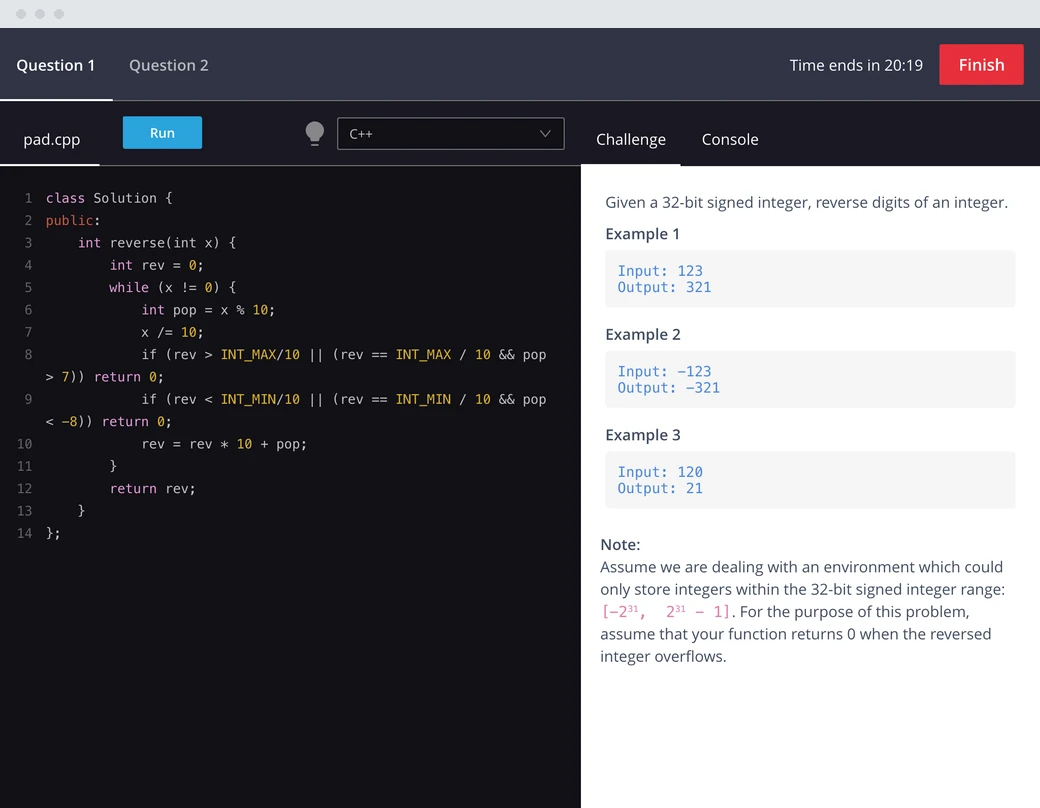
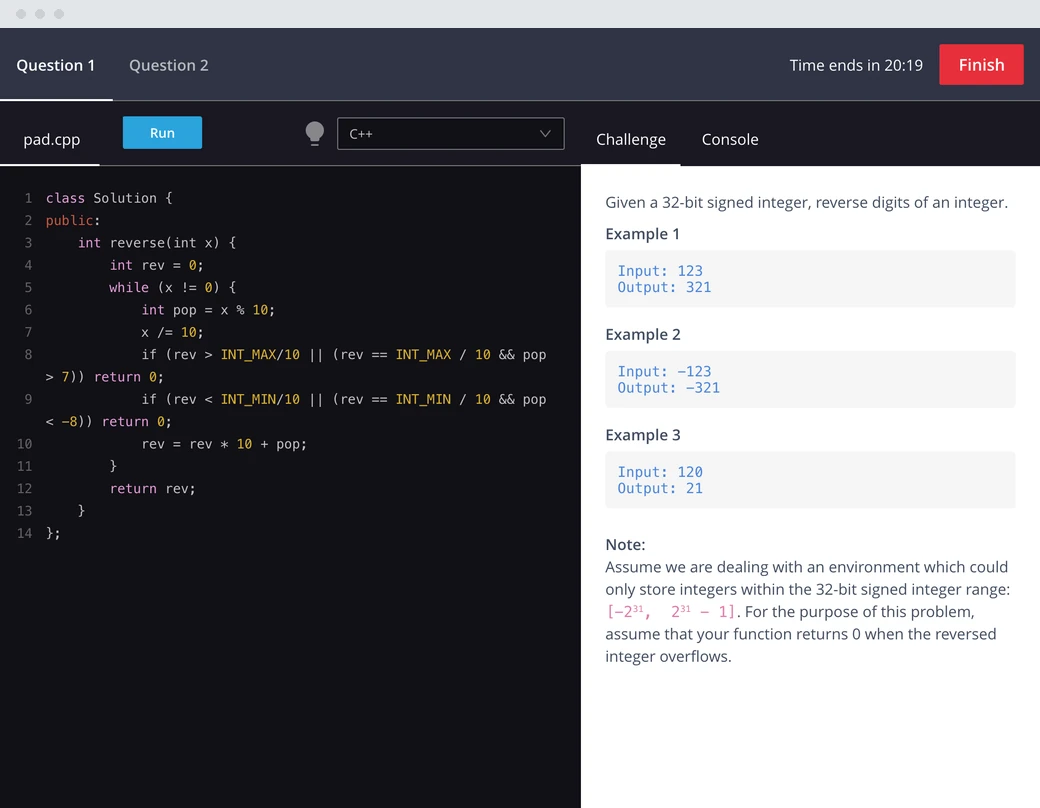
Udemy: new hero (course page on web + phone, no laptop); Hired editor with aligned note
Claude-Session: https://claude.ai/code/session_01VXSKCsyRqCv6TwdNvrmcXN

Changed region(s): [[0.5846, 0.6498, 0.9846, 0.8354]]

diff --git a/udemy.html b/udemy.html
@@ -38,7 +38,7 @@
       </ul>
     </div>
 
-    <div class="shot"><img src="assets/img/work/udemy-hero.webp" width="2000" height="1193" alt="Udemy product, hero view"></div>
+    <div class="shot combo" style="aspect-ratio:2384 / 1414"><img class="win framed" src="assets/img/work/udemy-hero-web.webp" width="1900" height="1218" style="left:17.953%;top:0;width:79.698%" alt="A Udemy course page on the web: video preview, price, and what the course covers"><img class="ph framed" src="assets/img/work/udemy-hero-phone.webp" width="500" height="1003" style="left:2.349%;top:25.106%;width:20.973%" alt="The same kind of course page on a phone, with Buy Now always in reach"></div>
 
     <div class="col prose">
       <p class="m-rise">Udemy connects people who want to learn with instructors who teach what they know. I was Udemy’s second designer and its first design leader, and I built the team to ten: product designers, brand designers, and researchers, plus agency partners for marketing.</p>
